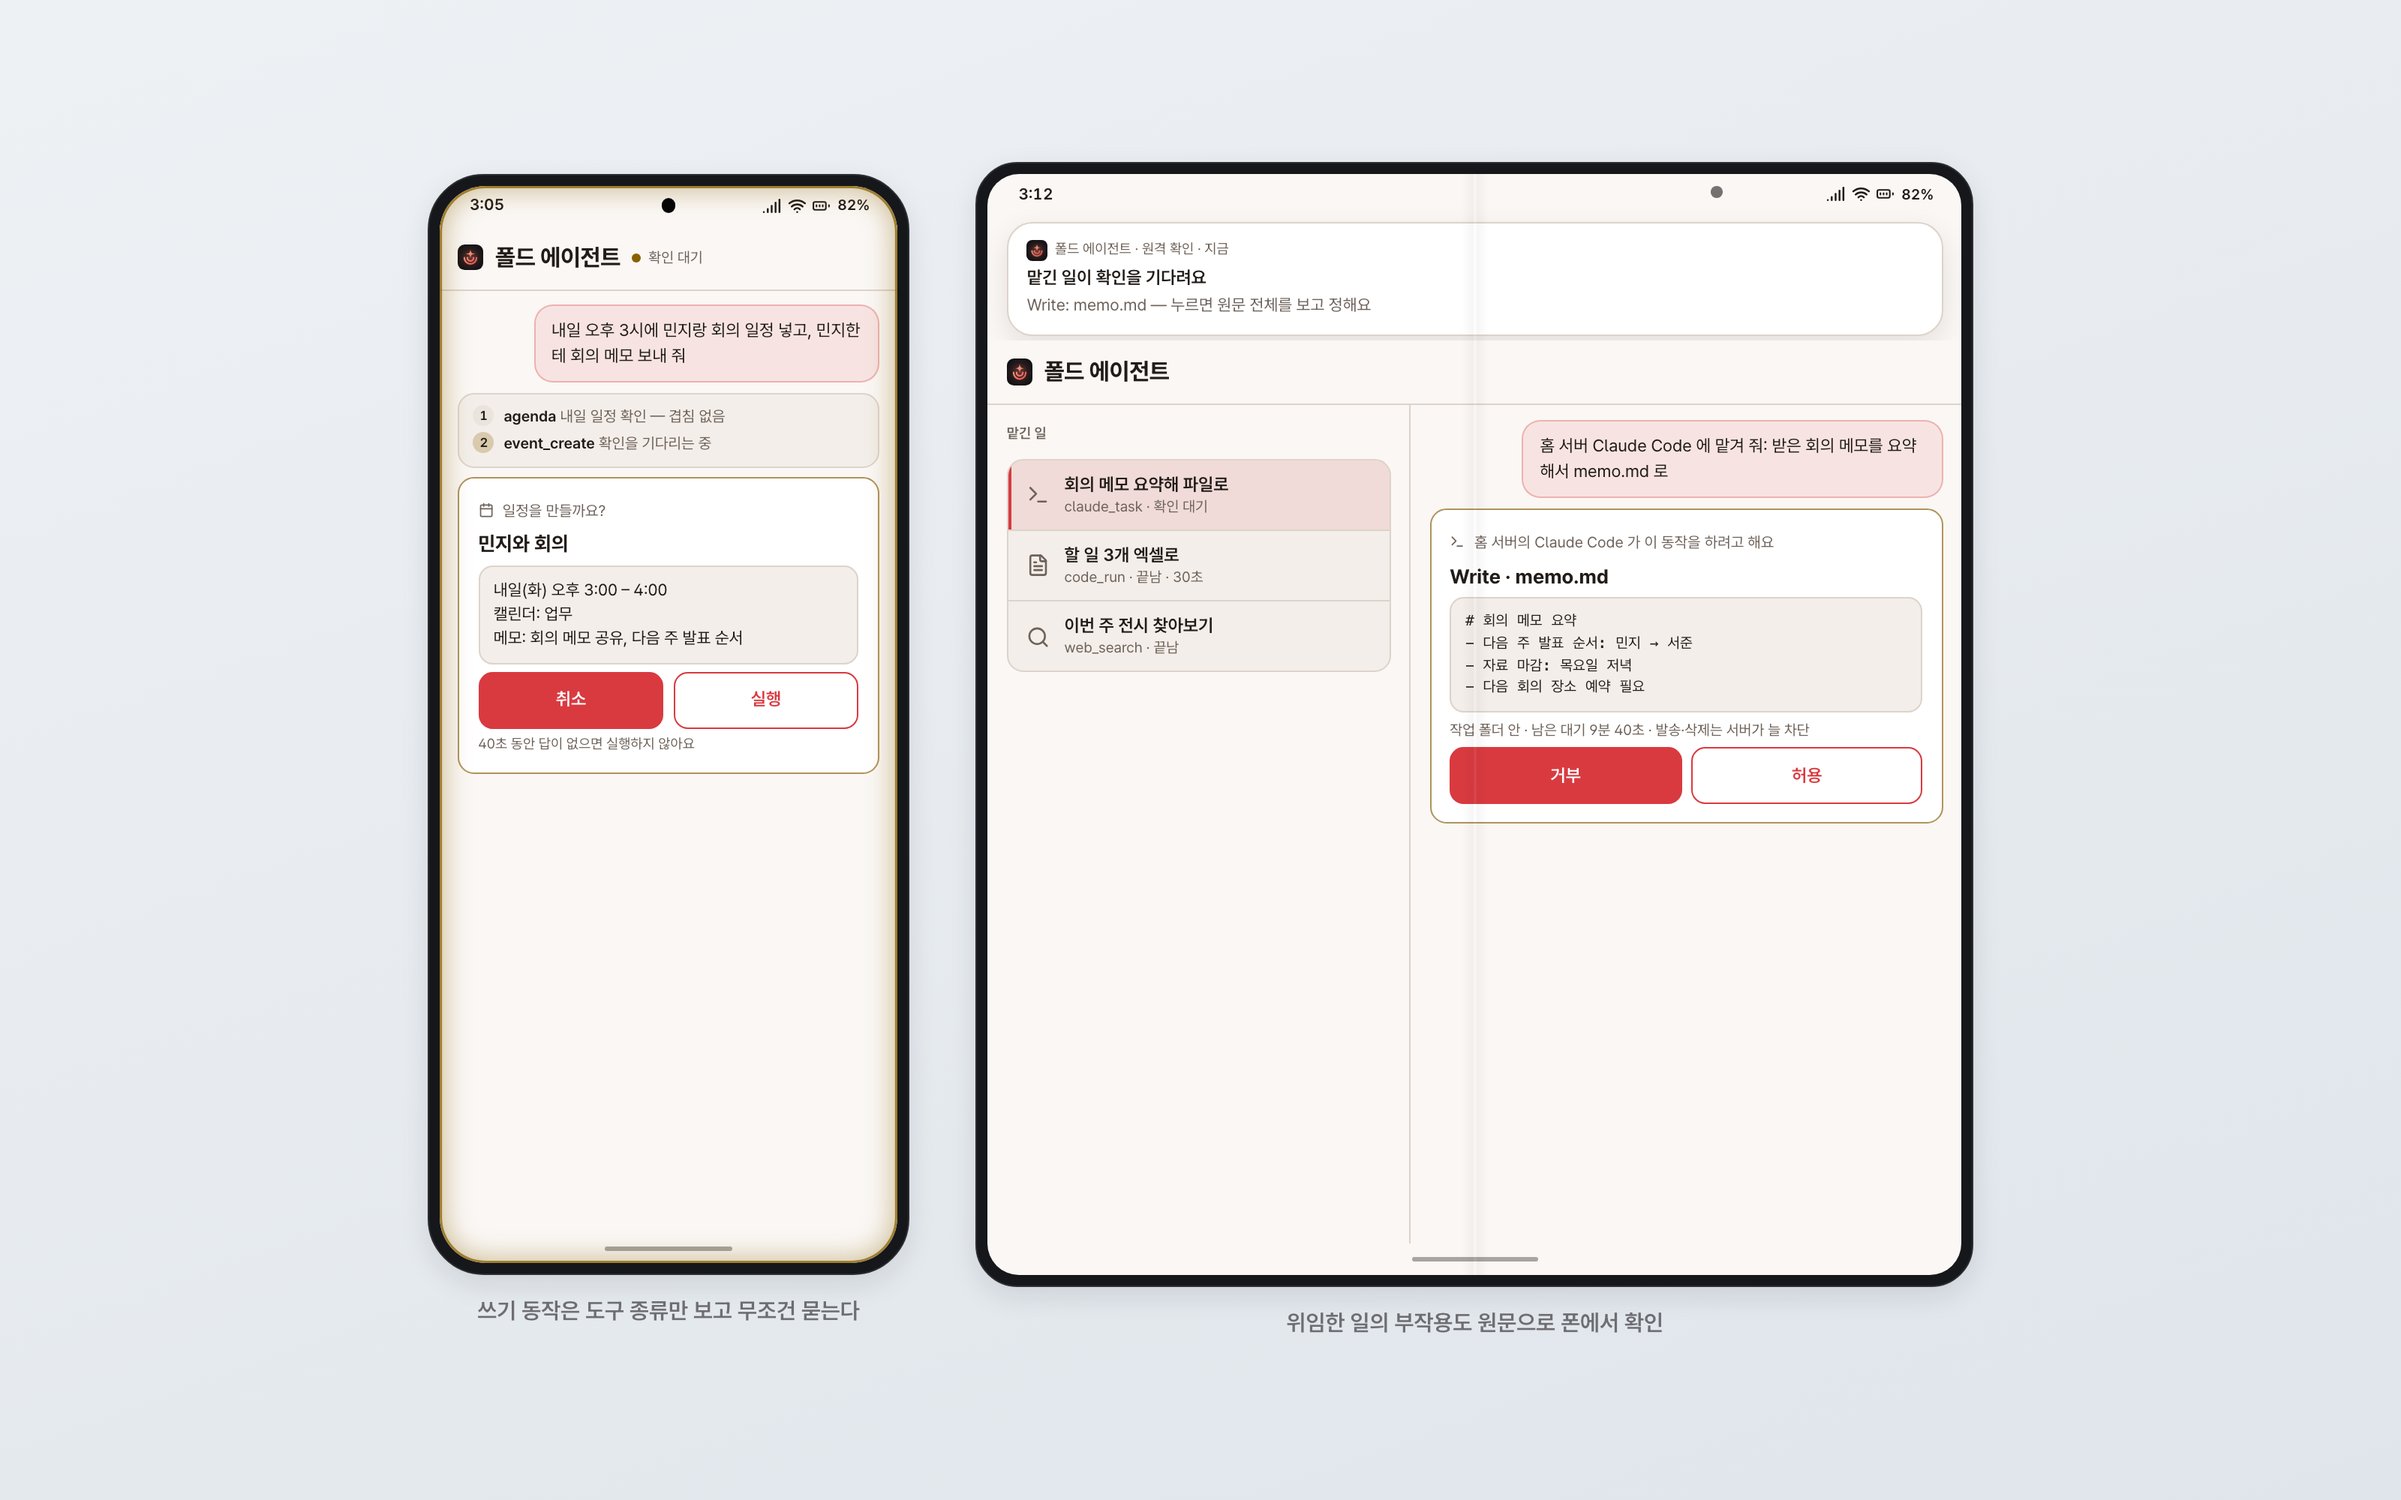
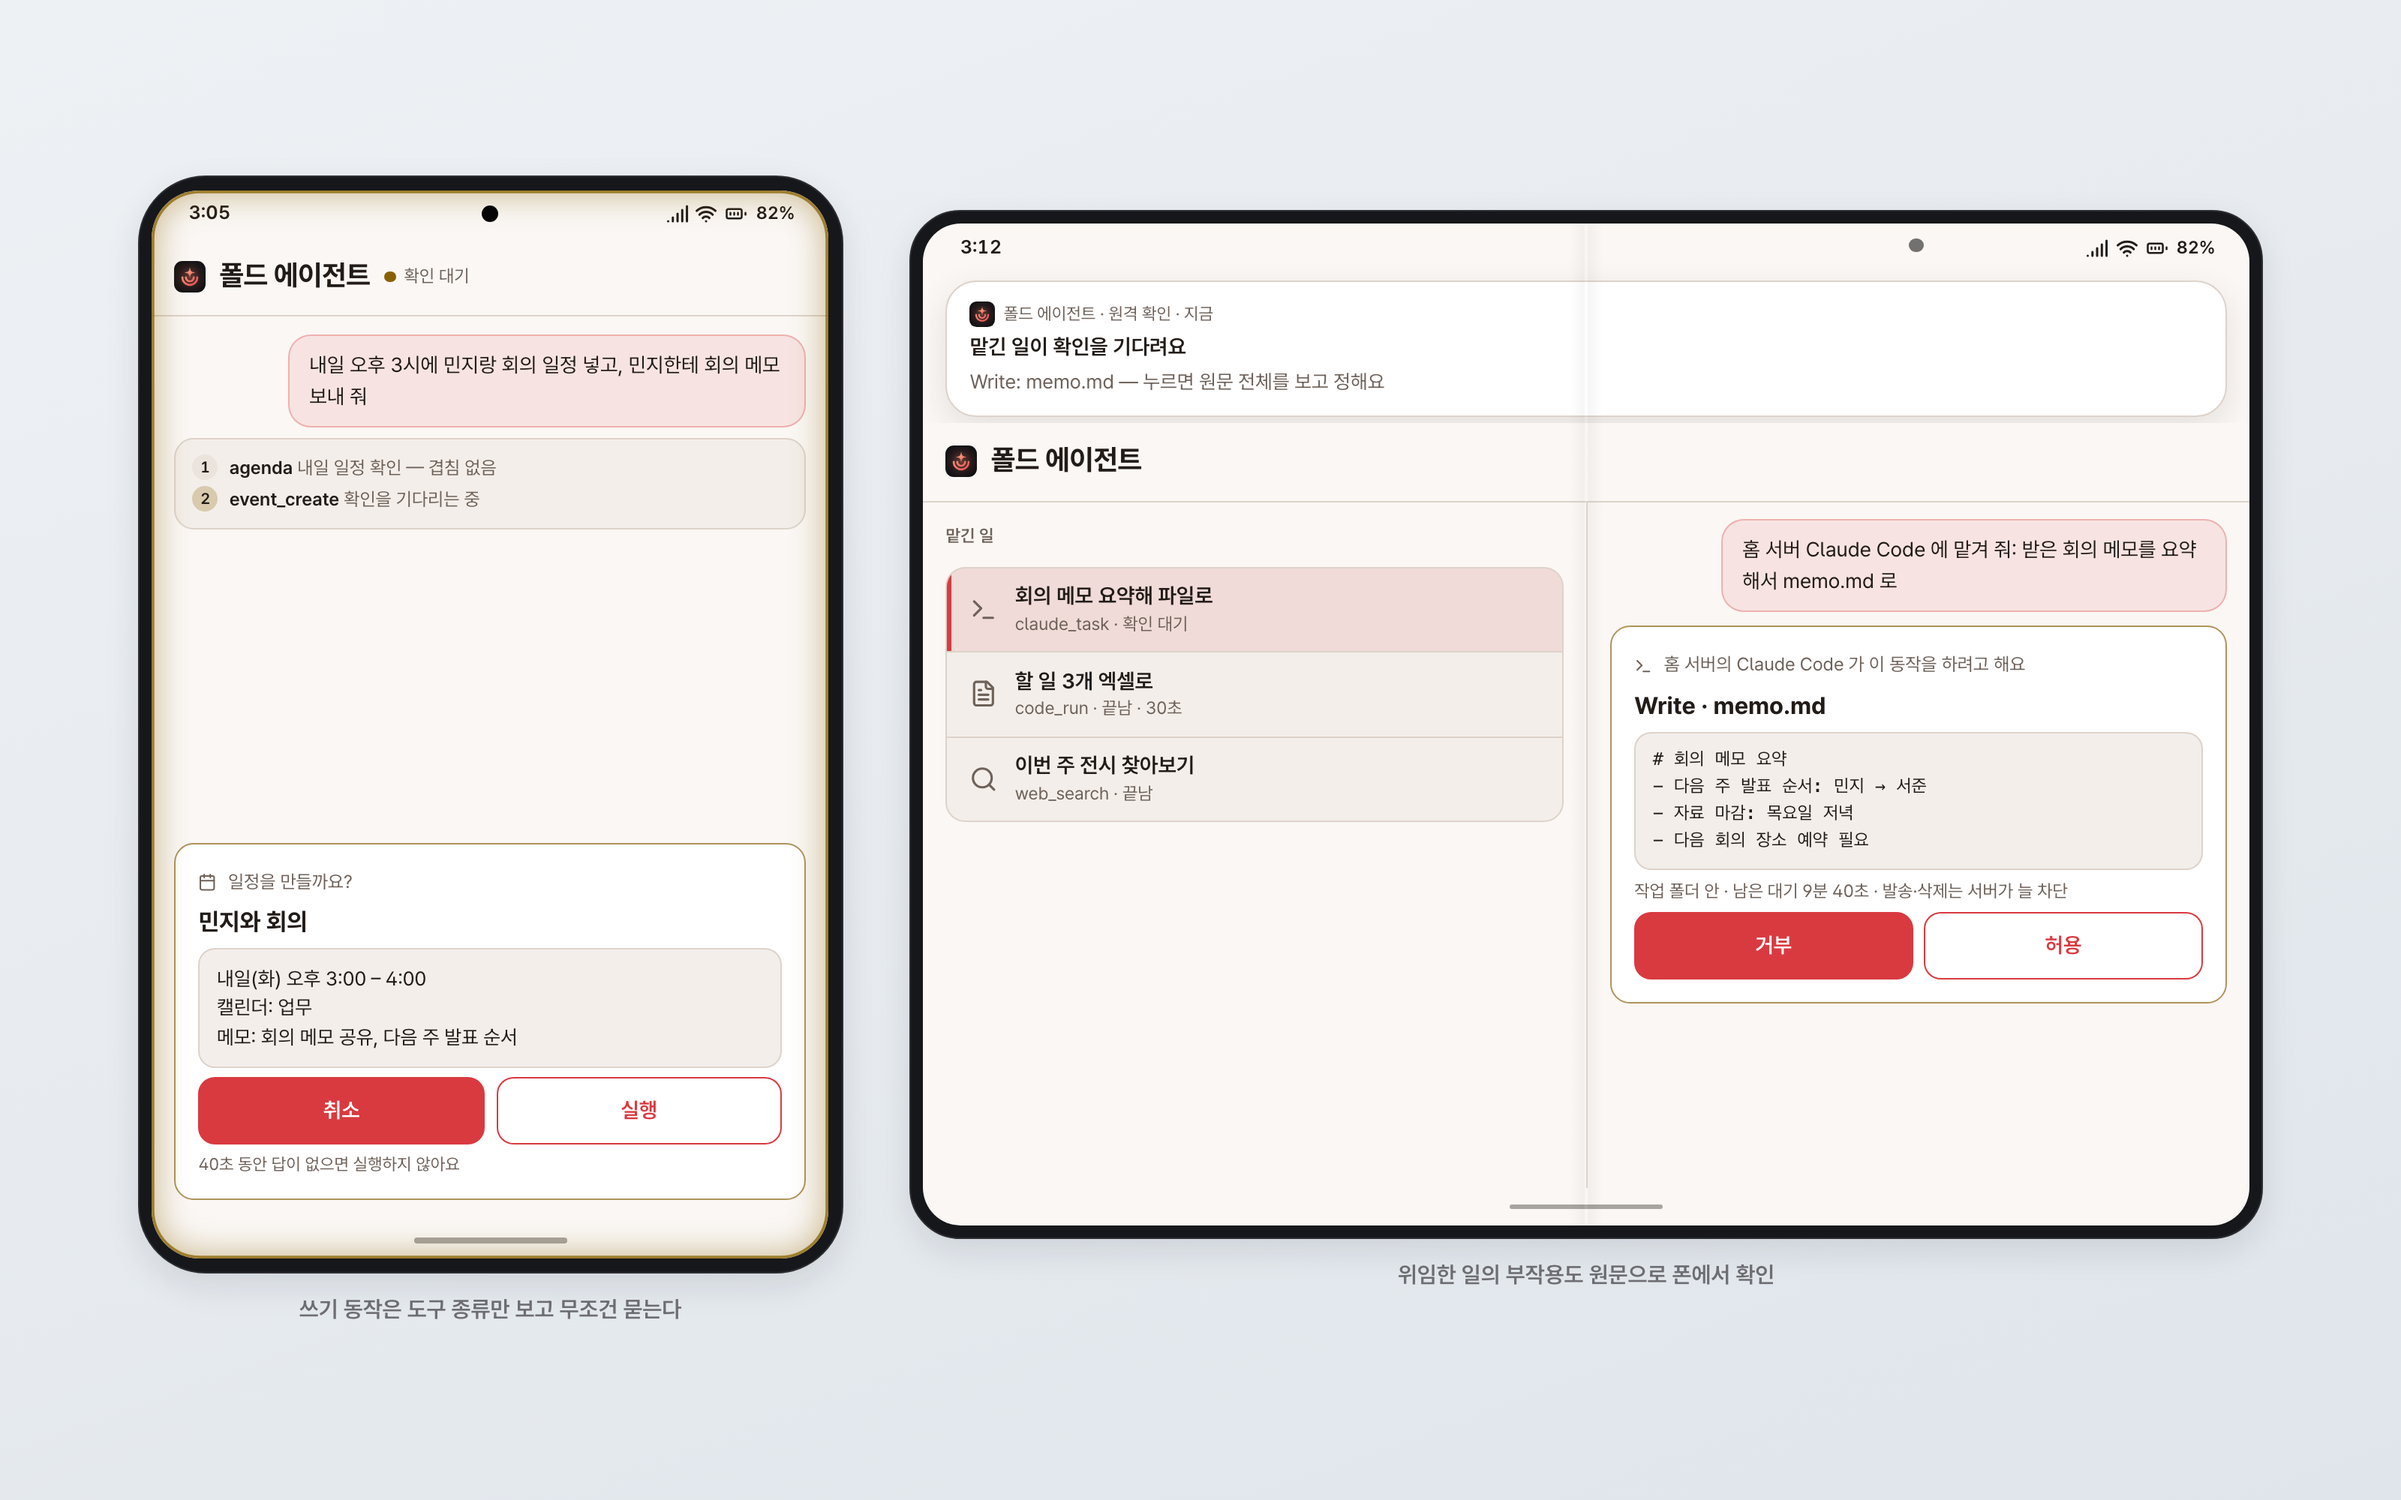
docs: re-render mockups at real Galaxy Z Fold8 ratios

Changed region(s): [[0.0312, 0.093, 0.9688, 0.899], [0.25, 0.713, 0.2812, 0.744]]

diff --git a/docs/mockups/confirm.html b/docs/mockups/confirm.html
@@ -16,7 +16,7 @@
 
     <!-- 커버: 쓰기 동작 확인 -->
     <div>
-      <div class="fold-cover" style="--zoom:.78">
+      <div class="fold-cover" style="--zoom:.94">
         <div class="screen">
           <div class="status-bar" data-time="3:05"></div>
           <div class="app-bar">
@@ -31,7 +31,7 @@
               <div class="step"><span class="n">1</span><span><b>agenda</b> 내일 일정 확인 — 겹침 없음</span></div>
               <div class="step warn"><span class="n">2</span><span><b>event_create</b> 확인을 기다리는 중</span></div>
             </div>
-            <div class="card confirm-card raised">
+            <div class="card confirm-card raised" style="margin-top:auto">
               <div class="cc-head"><i data-icon="calendar"></i><span>일정을 만들까요?</span></div>
               <div class="cc-title">민지와 회의</div>
               <div class="cc-body">내일(화) 오후 3:00 – 4:00
@@ -53,7 +53,7 @@
 
     <!-- 펼침: 홈 서버 Claude Code 위임의 원격 확인 -->
     <div>
-      <div class="fold-open" style="--zoom:.78">
+      <div class="fold-open" style="--zoom:.94">
         <div class="screen">
           <div class="status-bar" data-time="3:12"></div>
           <div class="notif heads-up">
@@ -66,7 +66,7 @@
             <span class="title">폴드 에이전트</span>
             <span class="spacer"></span>
           </div>
-          <div class="two-pane list-detail">
+          <div class="two-pane">
             <div class="pane">
               <div class="section-label">맡긴 일</div>
               <div class="list">

diff --git a/docs/mockups/hero.html b/docs/mockups/hero.html
@@ -7,7 +7,7 @@
 <link rel="stylesheet" href="_app.css">
 <style>
   .layout { position: absolute; inset: 0; display: flex; align-items: center; justify-content: center; gap: 34px; }
-  .mac-col { width: 420px; display: flex; flex-direction: column; }
+  .mac-col { width: 372px; display: flex; flex-direction: column; }
   .conv .list-row .meta { font-size: 12px; }
   .pane.room { display: flex; flex-direction: column; gap: 10px; }
 </style>
@@ -17,7 +17,7 @@
 
     <!-- 펼친 화면: 대시보드(대화 목록 + 대화방) -->
     <div>
-      <div class="fold-open" style="--zoom:.76">
+      <div class="fold-open" style="--zoom:.7">
         <div class="screen">
           <div class="status-bar" data-time="7:42"></div>
           <div class="app-bar">
@@ -28,7 +28,7 @@
             <span class="icon-btn"><i data-icon="search"></i></span>
             <span class="icon-btn"><i data-icon="settings"></i></span>
           </div>
-          <div class="two-pane list-detail">
+          <div class="two-pane">
             <div class="pane conv">
               <div class="chips"><span class="chip on">대화</span><span class="chip">보관</span><span class="chip">휴지통</span></div>
               <div class="section-label">오늘</div>
@@ -71,7 +71,7 @@
 
     <!-- 커버: 다른 앱 위에서 일하는 중 -->
     <div>
-      <div class="fold-cover" style="--zoom:.76">
+      <div class="fold-cover" style="--zoom:.7">
         <div class="screen">
           <div class="status-bar" data-time="7:42"></div>
           <div class="fake-app dim-app" style="top:32px">

diff --git a/docs/mockups/scenes/01-cover-mac.html b/docs/mockups/scenes/01-cover-mac.html
@@ -1,18 +1,18 @@
 <!doctype html>
 <html lang="ko"><head><meta charset="utf-8">
-<meta name="shot" content="w=720,h=518,scale=2.5">
+<meta name="shot" content="w=720,h=450,scale=2.5">
 <title>장면 1 — 맥 화면</title>
 <link rel="stylesheet" href="https://mockup-kit.invalid/kit.css">
 <script src="https://mockup-kit.invalid/kit.js"></script>
 <link rel="stylesheet" href="../_app.css">
 <link rel="stylesheet" href="_scene.css">
 </head><body>
-<div class="canvas desktop app-foldagent" style="--cw:720px; --ch:518px">
+<div class="canvas desktop app-foldagent" style="--cw:720px; --ch:450px">
   <div class="mac-menubar">
     <span class="app-name">텍스트 편집기</span><span>파일</span><span>편집</span>
     <span class="extras"><span class="extra"><i data-icon="wifi"></i></span><span class="extra"><i data-icon="battery"></i></span><span class="clock">9월 28일 (일) 오후 2:40</span></span>
   </div>
-  <div class="mac-window" style="left:90px; top:50px; width:540px; height:440px">
+  <div class="mac-window" style="left:90px; top:46px; width:540px; height:380px">
     <div class="mac-titlebar"><span class="traffic"><i></i><i></i><i></i></span><span class="mac-title">다음 주 발표 준비.txt</span></div>
     <div class="doc">
       <h3>다음 주 발표 준비</h3>

diff --git a/docs/mockups/hitl.html b/docs/mockups/hitl.html
@@ -17,7 +17,7 @@
 
     <!-- 1. 헤매는 중 -->
     <div>
-      <div class="fold-cover" style="--zoom:.7">
+      <div class="fold-cover" style="--zoom:.82">
         <div class="screen">
           <div class="status-bar" data-time="9:18"></div>
           <div class="fake-app dim-app" style="top:32px">
@@ -43,7 +43,7 @@
 
     <!-- 2. 사람 차례 -->
     <div>
-      <div class="fold-cover" style="--zoom:.7">
+      <div class="fold-cover" style="--zoom:.82">
         <div class="screen">
           <div class="status-bar" data-time="9:19"></div>
           <div class="fake-app" style="top:32px">
@@ -69,7 +69,7 @@
 
     <!-- 3. 이어서 -->
     <div>
-      <div class="fold-cover" style="--zoom:.7">
+      <div class="fold-cover" style="--zoom:.82">
         <div class="screen">
           <div class="status-bar" data-time="9:20"></div>
           <div class="app-bar">

diff --git a/docs/mockups/scenes/01-cover-phone.html b/docs/mockups/scenes/01-cover-phone.html
@@ -1,13 +1,13 @@
 <!doctype html>
 <html lang="ko"><head><meta charset="utf-8">
-<meta name="shot" content="w=324,h=450,scale=4">
+<meta name="shot" content="w=270,h=427,scale=4.3">
 <title>장면 1 — 커버에서 일하는 중</title>
 <link rel="stylesheet" href="https://mockup-kit.invalid/kit.css">
 <script src="https://mockup-kit.invalid/kit.js"></script>
 <link rel="stylesheet" href="../_app.css">
 <link rel="stylesheet" href="_scene.css">
 </head><body>
-<div class="canvas scr app-foldagent big" style="--cw:324px; --ch:450px">
+<div class="canvas scr app-foldagent big" style="--cw:270px; --ch:427px">
   <div class="screen">
     <div class="status-bar" data-time="2:40" style="padding:0 16px"></div>
     <div class="fake-app dim-app" style="top:34px">

diff --git a/docs/mockups/tools.html b/docs/mockups/tools.html
@@ -24,7 +24,7 @@
 
     <!-- 펼침: 방법 고르기 -->
     <div>
-      <div class="fold-open" style="--zoom:.78">
+      <div class="fold-open" style="--zoom:.92">
         <div class="screen">
           <div class="status-bar" data-time="8:05"></div>
           <div class="app-bar">
@@ -67,7 +67,7 @@
 
     <!-- 커버: 맡긴 일 끝 알림 -->
     <div>
-      <div class="fold-cover" style="--zoom:.78">
+      <div class="fold-cover" style="--zoom:.92">
         <div class="screen">
           <div class="status-bar" data-time="8:07"></div>
           <div class="content" style="padding-top:18px">

diff --git a/docs/mockups/thumbnail.html b/docs/mockups/thumbnail.html
@@ -24,7 +24,7 @@
     <div class="chips2"><span class="tag accent">Android 앱</span><span class="tag accent">확인 게이트</span><span class="tag accent">재계획</span><span class="tag accent">Claude Code 위임</span><span class="tag accent">사람 개입</span></div>
   </div>
   <div class="r">
-    <div class="fold-cover" style="--zoom:.8">
+    <div class="fold-cover" style="--zoom:1">
       <div class="screen">
         <div class="status-bar" data-time="7:42"></div>
         <div class="fake-app dim-app" style="top:32px">
